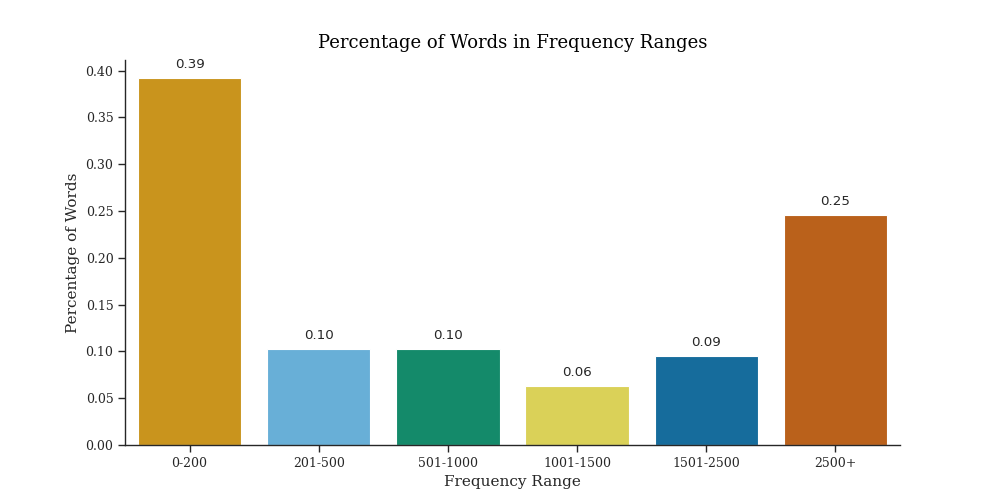
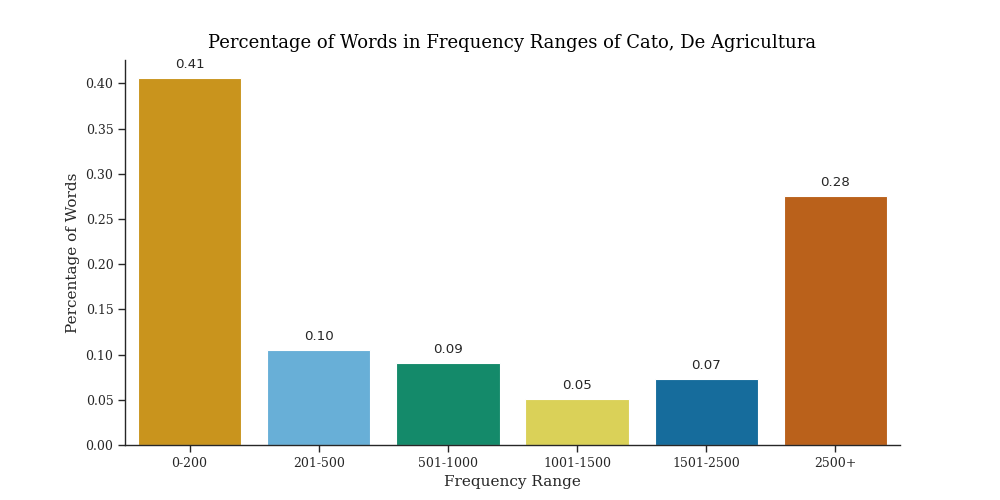
default selections, titles, loading animation

diff --git a/FastBridgeApp/templates/stats-multiple-texts.html b/FastBridgeApp/templates/stats-multiple-texts.html
@@ -7,6 +7,27 @@
         top: 100px;
         /* adjust as necessary */
     }
+
+    .loader {
+        border: 16px solid #f3f3f3;
+        /* Light grey */
+        border-top: 16px solid #3498db;
+        /* Blue */
+        border-radius: 50%;
+        width: 50px;
+        height: 50px;
+        animation: spin 2s linear infinite;
+    }
+
+    @keyframes spin {
+        0% {
+            transform: rotate(0deg);
+        }
+
+        100% {
+            transform: rotate(360deg);
+        }
+    }
 </style>
 
 
@@ -14,21 +35,23 @@
 
 <!-- HTML goes here -->
 
-<body id="page-top">
+<body id="page-top" onload="handlePageLoad()">
     <header class="masthead"
         style="background-image: url('/assets/img/stats_background_2.jpg') ;background-size: cover;">
         <div class="container mt-5">
             <div class="dropdown-container">
 
                 <div class="row">
-                
+
                     <div class="col-md-6">
                         <select class="form-control" id="dropdown1" onchange="updateData('dropdown1')">
                             {% for name in textNames %}
                             <option value="{{ loop.index0 }}">{{ name }}</option>
                             {% endfor %}
                         </select>
+                        <div class="loader" id="loader1" style="display: none;"></div>
                         <div id="column1" class="mt-5">
+
                             <!-- The metrics and plots for the first dropdown choice will be inserted here -->
                         </div>
                     </div>
@@ -38,7 +61,9 @@
                             <option value="{{ loop.index0 }}">{{ name }}</option>
                             {% endfor %}
                         </select>
+                        <div class="loader" id="loader2" style="display: none;"></div>
                         <div id="column2" class="mt-5">
+
                             <!-- The metrics and plots for the second dropdown choice will be inserted here -->
                         </div>
                     </div>
@@ -52,8 +77,10 @@
 
 {% block scripts %}
 <!-- Scripts go here -->
+<!-- updateData -->
 <script>
     function updateData(dropdownId) {
+
         var selectElement = document.getElementById(dropdownId);
         var selectedIndex = selectElement.selectedIndex;
         var textName = selectElement.options[selectedIndex].text;
@@ -73,7 +100,7 @@
         var ends = starts_and_ends[1].split("+")
 
         //extract textname
-        var text_names_raw = urlParts[urlParts.length-4];
+        var text_names_raw = urlParts[urlParts.length - 4];
         var text_names = text_names_raw.split("+")
         var selected_text_filename = text_names[selectedIndex]
 
@@ -81,7 +108,17 @@
         var sectionEnd = ends[selectedIndex];
 
         // Construct the URL for the GET request
-        var url = "/stats/get_metrics/" + selected_text_filename + "/" + sectionStart + "-" + sectionEnd + "/"+selectedIndex;
+        var url = "/stats/get_metrics/" + selected_text_filename + "/" + sectionStart + "-" + sectionEnd + "/" + selectedIndex;
+
+
+        // Show the loader before starting the request
+        var loaderElement;
+        if (dropdownId === "dropdown1") {
+            loaderElement = document.getElementById("loader1");
+        } else if (dropdownId === "dropdown2") {
+            loaderElement = document.getElementById("loader2");
+        }
+        loaderElement.style.display = "block";
 
         // Make the GET request and update the page with the received data
         fetch(url)
@@ -92,8 +129,86 @@
                 } else if (dropdownId === "dropdown2") {
                     document.getElementById("column2").innerHTML = data;
                 }
+                // Hide the loader after the request is complete
+                loaderElement.style.display = "none";
             });
     }
+</script>
+<!-- updateData for default selection -->
+<script>
+    function updateDataDefault(dropdownId) {
+        var selectElement = document.getElementById(dropdownId);
+        var selectedIndex;
+
+        if (dropdownId === "dropdown1") {
+            selectedIndex = 0; // default to the first option for dropdown1
+        } else if (dropdownId === "dropdown2") {
+            selectedIndex = 1; // default to the second option for dropdown2
+        } else {
+            selectedIndex = selectElement.selectedIndex; // keep this as a fallback
+        }
+
+        var textName = selectElement.options[selectedIndex].text;
+        // var selectElement = document.getElementById(dropdownId);
+        // var selectedIndex = selectElement.selectedIndex;
+        // var textName = selectElement.options[selectedIndex].text;
+
+        // Get the current URL
+        var currentUrl = window.location.href;
+
+        // Extract the sections from the current URL
+        var urlParts = currentUrl.split("/");
+        console.log(urlParts)
+
+        //extract starts and ends
+        var sections = urlParts[urlParts.length - 3];//for some reason 3 is the right number
+        var starts_and_ends = sections.split("-")
+        console.log(starts_and_ends)
+        var starts = starts_and_ends[0].split("+")
+        var ends = starts_and_ends[1].split("+")
+
+        //extract textname
+        var text_names_raw = urlParts[urlParts.length - 4];
+        var text_names = text_names_raw.split("+")
+        var selected_text_filename = text_names[selectedIndex]
+
+        var sectionStart = starts[selectedIndex];
+        var sectionEnd = ends[selectedIndex];
+
+        // Construct the URL for the GET request
+        var url = "/stats/get_metrics/" + selected_text_filename + "/" + sectionStart + "-" + sectionEnd + "/" + selectedIndex;
+
+
+        // Show the loader before starting the request
+        var loaderElement;
+        if (dropdownId === "dropdown1") {
+            loaderElement = document.getElementById("loader1");
+        } else if (dropdownId === "dropdown2") {
+            loaderElement = document.getElementById("loader2");
+        }
+        loaderElement.style.display = "block";
+
+        // Make the GET request and update the page with the received data
+        fetch(url)
+            .then(response => response.text())
+            .then(data => {
+                if (dropdownId === "dropdown1") {
+                    document.getElementById("column1").innerHTML = data;
+                } else if (dropdownId === "dropdown2") {
+                    document.getElementById("column2").innerHTML = data;
+                }
+                // Hide the loader after the request is complete
+                loaderElement.style.display = "none";
+            });
+    }
+</script>
+<!-- Default Selections on Page Load -->
+<script>
+    function handlePageLoad() {
+        updateDataDefault('dropdown1');
+        updateDataDefault('dropdown2');
+    }
+
 </script>
 <!-- <script>
     function updateData(dropdownId) {

diff --git a/FastBridgeApp/templates/stats-column-data.html b/FastBridgeApp/templates/stats-column-data.html
@@ -37,12 +37,26 @@
         /* Add a scrollbar when content overflows */
         margin-bottom: 100px;
     }
- 
 
+    h2 {
+        margin-top: 50px;
+    }
+
+    .plot-img {
+        display: block;
+        margin-bottom: 20px;
+    }
+
+    .statistics-list-words li {
+        display: inline-block;
+        margin-right: 10px;
+        margin-bottom: 10px;
+    }
 </style>
 
 <div class="container mt-5">
     <div class="content-container">
+        <h1>{{ text_name }}</h1>
         <h2>Metrics</h2>
         <div class="row">
             <div class="col-md-12">
@@ -237,14 +251,14 @@
             {{ plots|safe }}
         </div> -->
             <div id="plots">
-                <img id="freqPlot" class="plot-img" src="{{ request.url_for('plots', path=freq_plot_path) }}?v={{ now }}"
-                    alt="Plot Image">
-                <img id="cumLexPlot" class="plot-img" src="{{ request.url_for('plots', path=cum_lex_plot_path) }}?v={{ now }}"
-                    alt="Plot Image">
-                <img id="linLexPlot" class="plot-img" src="{{ request.url_for('plots', path=lin_lex_plot_path) }}?v={{ now }}"
-                    alt="Plot Image">
-                <img id="freqBinPlot" class="plot-img" src="{{ request.url_for('plots', path=freq_bins_plot_path) }}?v={{ now }}"
-                    alt="Plot Image">
+                <img id="freqPlot" class="plot-img"
+                    src="{{ request.url_for('plots', path=freq_plot_path) }}?v={{ now }}" alt="Plot Image">
+                <img id="cumLexPlot" class="plot-img"
+                    src="{{ request.url_for('plots', path=cum_lex_plot_path) }}?v={{ now }}" alt="Plot Image">
+                <img id="linLexPlot" class="plot-img"
+                    src="{{ request.url_for('plots', path=lin_lex_plot_path) }}?v={{ now }}" alt="Plot Image">
+                <img id="freqBinPlot" class="plot-img"
+                    src="{{ request.url_for('plots', path=freq_bins_plot_path) }}?v={{ now }}" alt="Plot Image">
                 <!-- <img id="freqPlot" class="plot-img" src="{{ request.url_for('plots', path=freq_plot_path) }}"
                     alt="Plot Image">
                 <img id="cumLexPlot" class="plot-img" src="{{ request.url_for('plots', path=cum_lex_plot_path) }}"
@@ -266,7 +280,7 @@
         <h2>20 Most Characteristic Words</h2>
         <div class="row">
             <div class="col-md-12">
-                <ul class="statistics-list" style="max-height: 300px; overflow-y: scroll;">
+                <ul class="statistics-list-words" style="max-height: 300px; overflow-y: scroll;">
                     {% for word in top20_NoDie300 %}
                     <li>{{ word }}</li>
                     {% endfor %}
@@ -277,7 +291,7 @@
         <h2>Hapax Legomena</h2>
         <div class="row">
             <div class="col-md-12">
-                <ul class="statistics-list" style="max-height: 300px; overflow-y: scroll;">
+                <ul class="statistics-list-words" style="max-height: 300px; overflow-y: scroll;">
                     {% for word in hapax_legomena %}
                     <li>{{ word }}</li>
                     {% endfor %}

diff --git a/FastBridgeApp/routers/stats.py b/FastBridgeApp/routers/stats.py
@@ -940,7 +940,7 @@ class TextAnalyzer():
             barplot = sns.barplot(
                 x='Frequency Range', y='Percentage of Words', data=df, palette=colorblind_palette)
             sns.despine()
-            plt.title('Percentage of Words in Frequency Ranges', **
+            plt.title(f'Percentage of Words in Frequency Ranges of {self.texts[0][0].name}', **
                       title_font)            # Get the current Axes instance
             ax = plt.gca()
 
